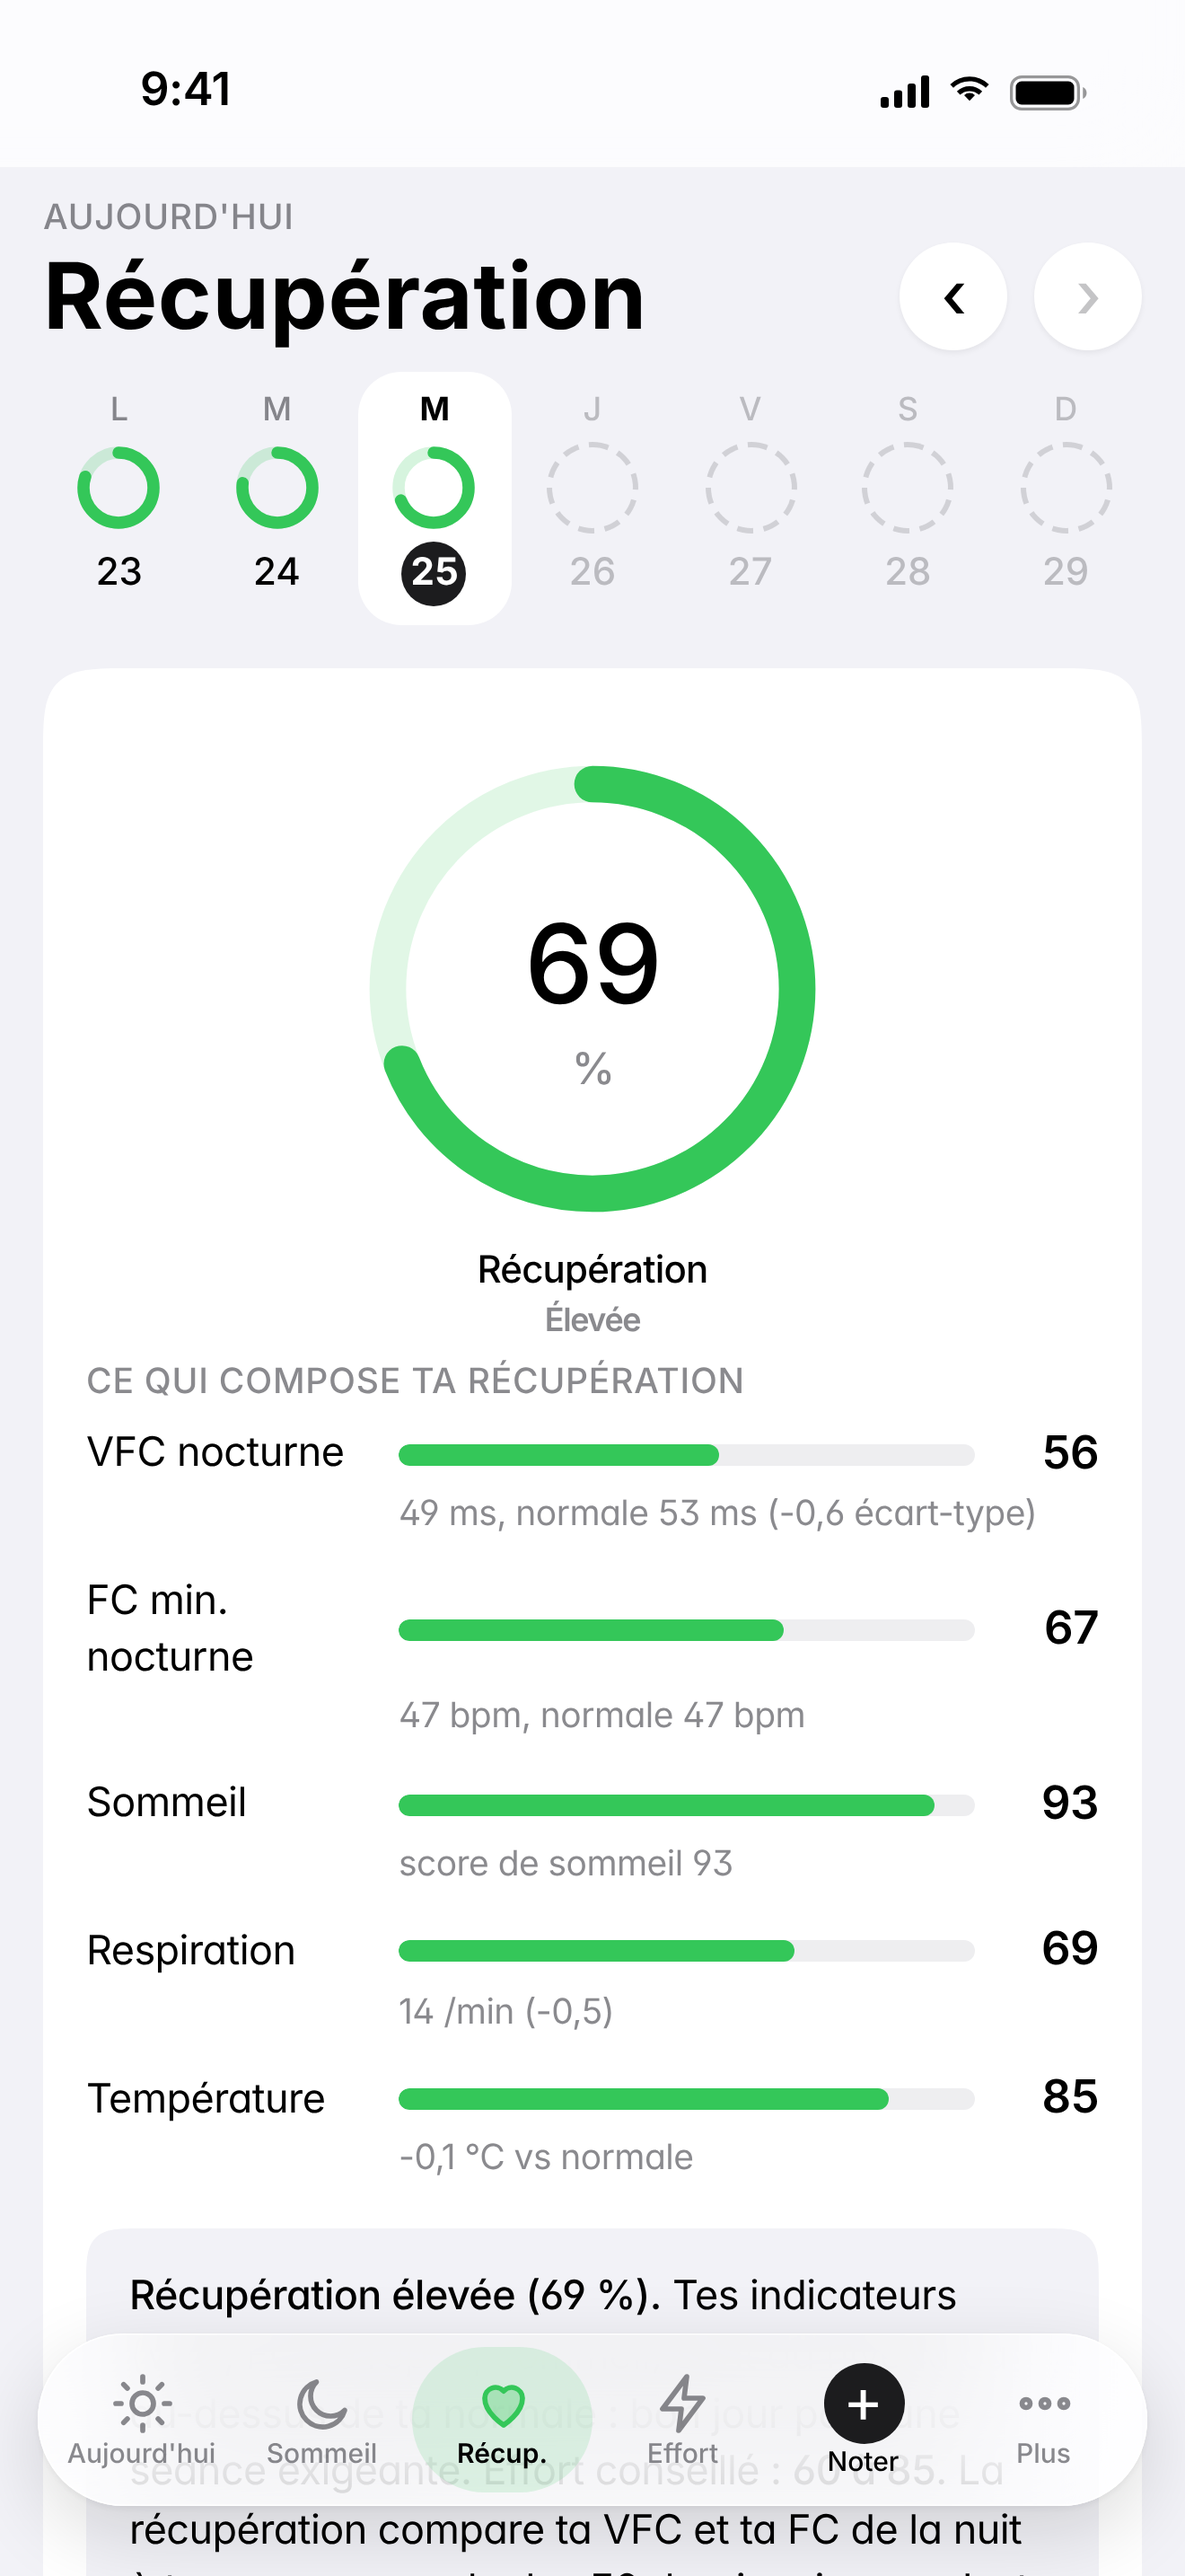
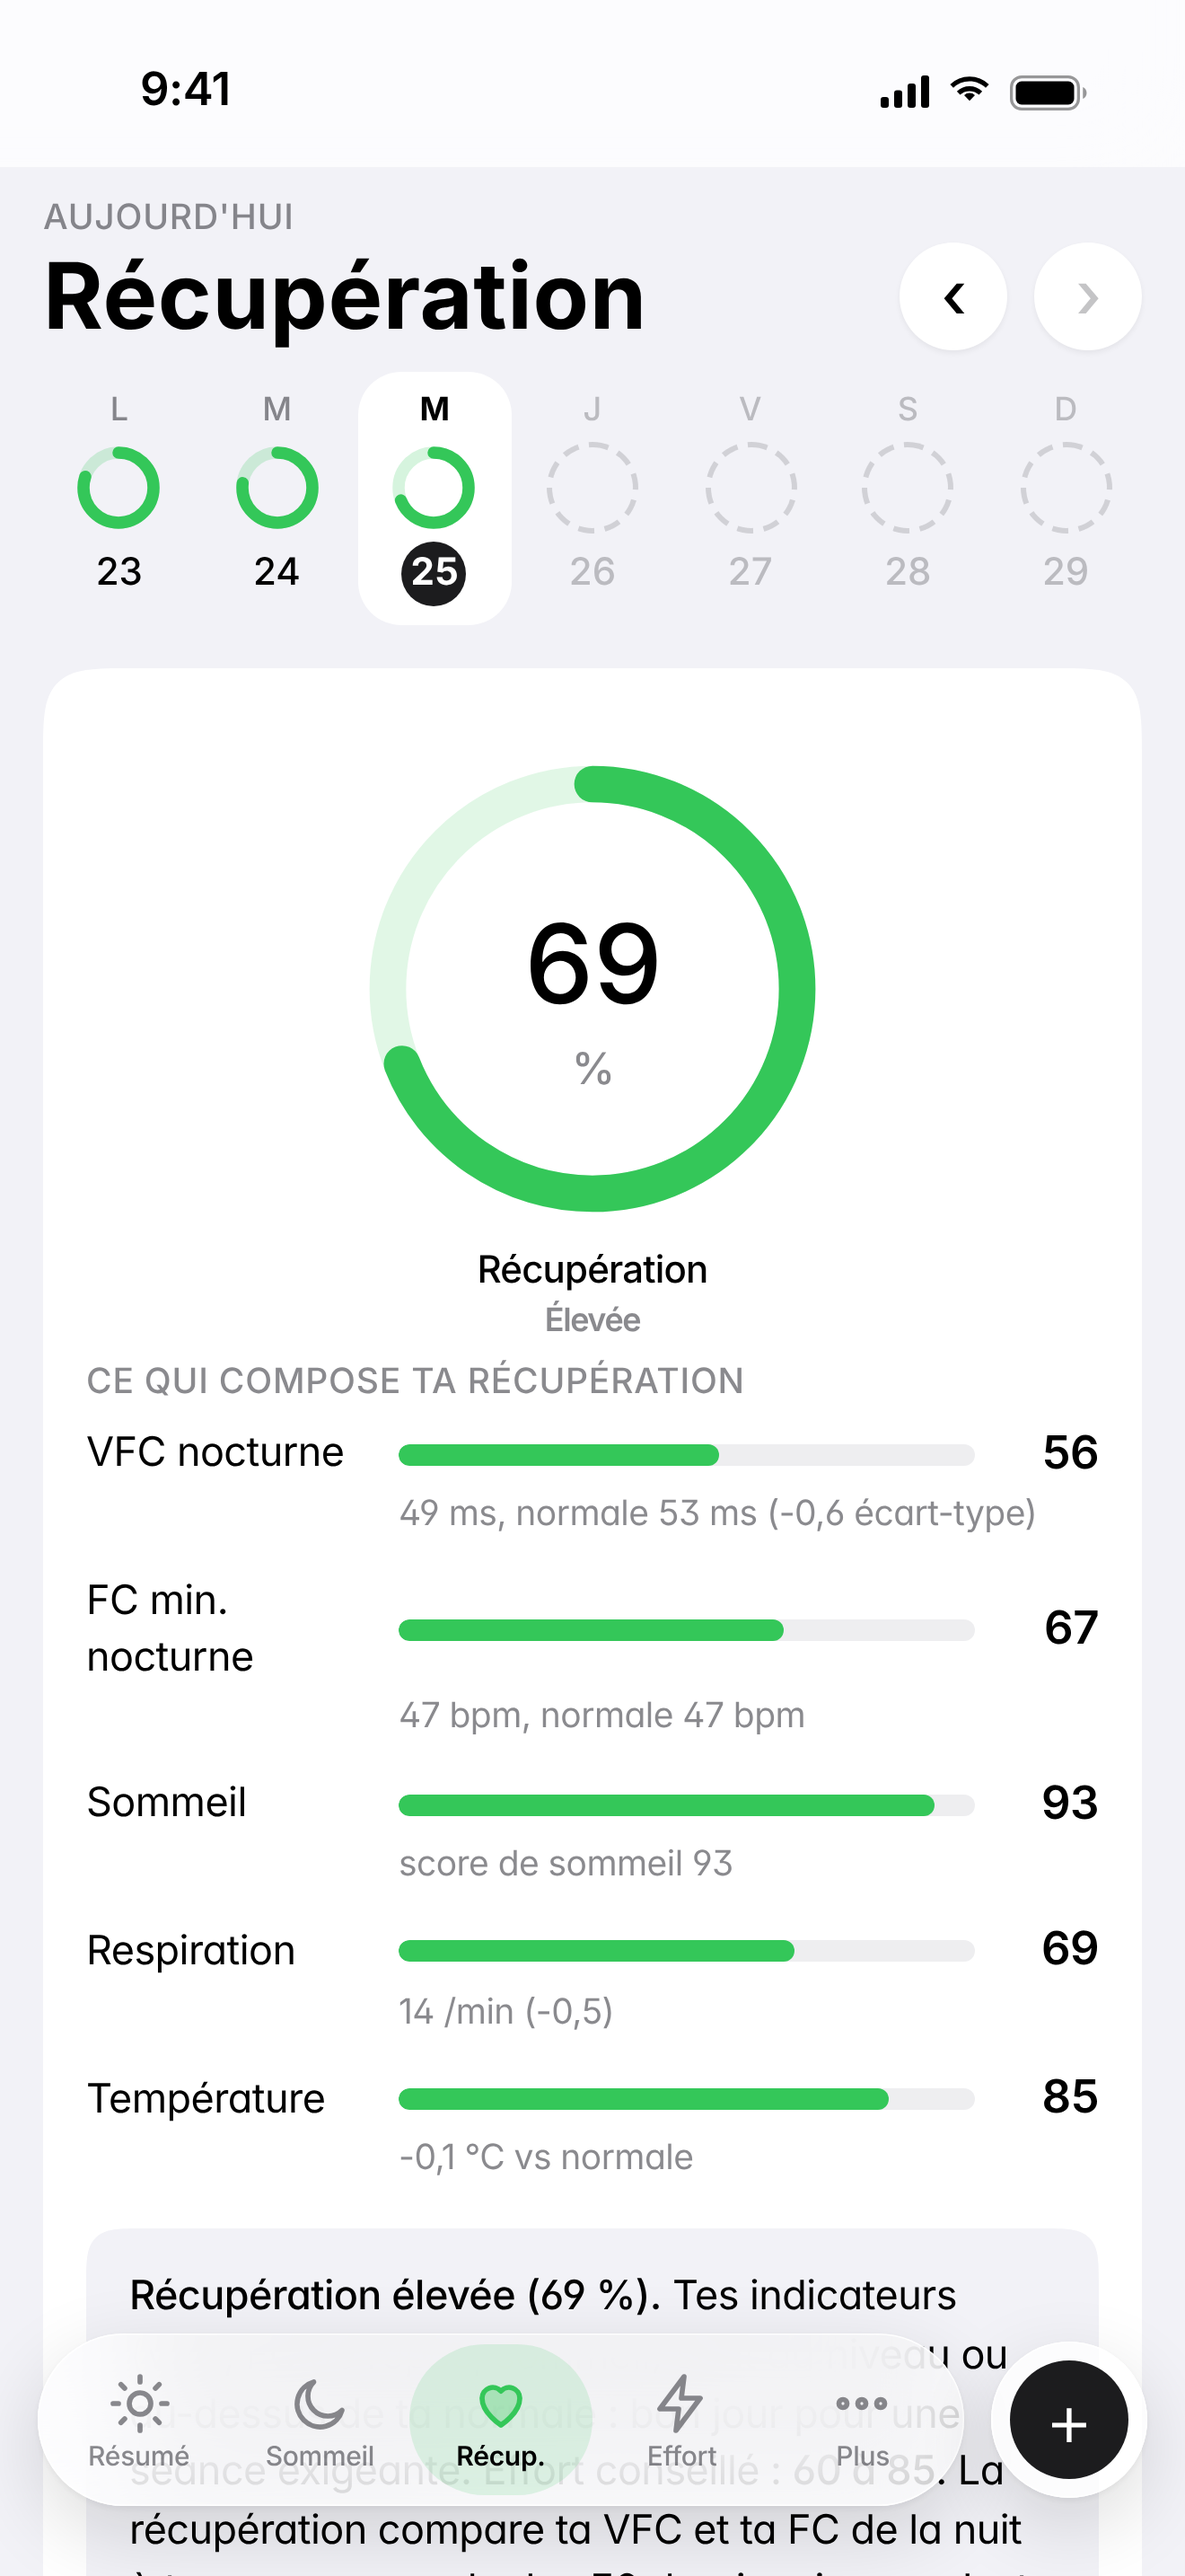
Barre d'onglets façon iOS 26 : « Noter » en bouton rond séparé
- « Noter » sort de la barre et devient un bouton rond en verre, à droite (comme Recherche dans iOS 26)
- les cinq onglets se partagent toute la barre : le fond de l'onglet actif couvre l'icône et le texte,
  plus aucun libellé ne déborde (iPhone SE compris)
- libellé « Résumé » pour le premier onglet (le grand titre reste « Aujourd'hui »)
- captures App Store régénérées

Claude-Session: https://claude.ai/code/session_015H5AcnZF4Qe2vCaE56TQbC

diff --git a/index.html b/index.html
@@ -19,7 +19,7 @@
 <header class="top">
  <div class="wrap tt"><div class="brand"><svg viewBox="0 0 32 32" aria-hidden="true"><rect width="32" height="32" rx="10" fill="var(--ink)"/><circle cx="16" cy="16" r="9" fill="none" stroke="var(--eff)" stroke-width="3" stroke-dasharray="19 38" stroke-linecap="round" transform="rotate(-90 16 16)"/><circle cx="16" cy="16" r="9" fill="none" stroke="var(--rec)" stroke-width="3" stroke-dasharray="17 40" stroke-dashoffset="-19" stroke-linecap="round" transform="rotate(-90 16 16)"/><circle cx="16" cy="16" r="9" fill="none" stroke="var(--slp)" stroke-width="3" stroke-dasharray="17 40" stroke-dashoffset="-38" stroke-linecap="round" transform="rotate(-90 16 16)"/></svg><h1>Carnet de santé</h1></div><span id="st" class="pill local">Sauvegarde locale</span></div>
  <nav class="wrap tabs" id="tabs">
-  <a href="#aujourdhui"><svg viewBox="0 0 24 24"><circle cx="12" cy="12" r="4"/><path d="M12 2v2M12 20v2M4.9 4.9l1.4 1.4M17.7 17.7l1.4 1.4M2 12h2M20 12h2M4.9 19.1l1.4-1.4M17.7 6.3l1.4-1.4"/></svg><span class="lb"><span class="lf">Aujourd'hui</span><span class="ls">Aujourd'hui</span></span></a>
+  <a href="#aujourdhui"><svg viewBox="0 0 24 24"><circle cx="12" cy="12" r="4"/><path d="M12 2v2M12 20v2M4.9 4.9l1.4 1.4M17.7 17.7l1.4 1.4M2 12h2M20 12h2M4.9 19.1l1.4-1.4M17.7 6.3l1.4-1.4"/></svg><span class="lb"><span class="lf">Aujourd'hui</span><span class="ls">Résumé</span></span></a>
   <a href="#sommeil"><svg viewBox="0 0 24 24"><path d="M20 14.5A8.5 8.5 0 1 1 9.5 4a7 7 0 0 0 10.5 10.5z"/></svg><span class="lb">Sommeil</span></a>
   <a href="#recuperation"><svg viewBox="0 0 24 24"><path d="M12 20s-7-4.4-7-10a4 4 0 0 1 7-2.6A4 4 0 0 1 19 10c0 5.6-7 10-7 10z"/></svg><span class="lb">Récup.</span></a>
   <button type="button" class="tplus" data-act="sheet" aria-label="Noter quelque chose"><span class="pi" aria-hidden="true">+</span><span class="lb">Noter</span></button>

diff --git a/src/styles.css b/src/styles.css
@@ -735,3 +735,17 @@ label.btn.filebtn:not(.pri){color:var(--ink)}
 /* Tendances sans données : l'écran d'attente, le poids et les mensurations seulement */
 #v-tendances.nohd>:not(.vhead):not(#tnote):not(:has(#fw)):not(:has(#mf)){display:none!important}
 #tnote:empty{display:none}
+
+/* ---------- barre d'onglets façon iOS 26 : « Noter » en bouton rond séparé ---------- */
+@media(max-width:800px){
+ #tabs{right:calc(14px + 58px + 10px);grid-template-columns:repeat(5,minmax(0,1fr));padding:4px}
+ .tabs a{min-height:56px;padding:5px 2px 4px;gap:3px;border-radius:99px}
+ .tabs .lb{font-size:10px;font-weight:500;letter-spacing:-.01em}
+ .tabs a[aria-current=page] .lb,.tabs a.sub-on .lb{font-weight:600}
+ .tabs .tplus{position:absolute;top:50%;right:-68px;transform:translateY(-50%);width:58px;height:58px;min-height:0;padding:0;margin:0;border-radius:50%;
+  background:var(--glass);-webkit-backdrop-filter:blur(24px) saturate(1.9);backdrop-filter:blur(24px) saturate(1.9);
+  box-shadow:0 10px 30px rgba(0,0,0,.14),0 1px 3px rgba(0,0,0,.06),inset 0 0 0 .5px var(--glass-edge);justify-content:center}
+ .tabs .tplus .lb{display:none}
+ .tabs .tplus .pi{width:44px;height:44px;font-size:28px;font-weight:300}
+ .tabs .tplus:active{transform:translateY(-50%) scale(.94)}
+}
